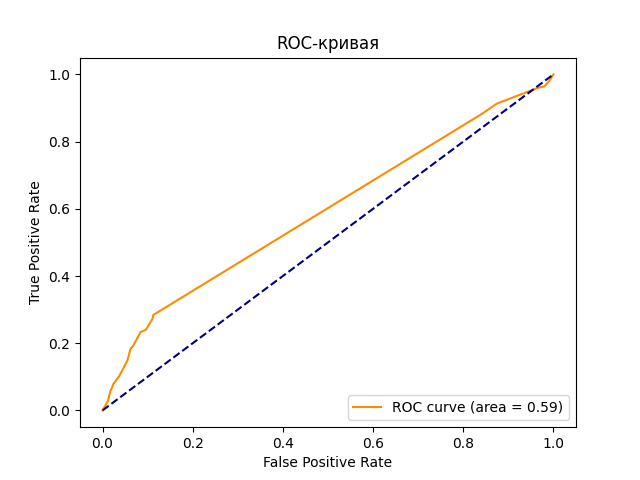
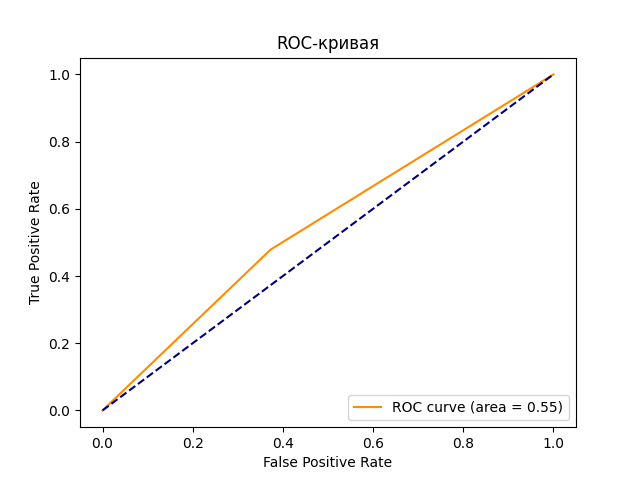
добавление сравнения разных параметров моделей

diff --git a/classification_2params/classification_2params.py b/classification_2params/classification_2params.py
@@ -50,7 +50,7 @@ y=dc["Potability"]
 X_train, X_test, y_train, y_test = train_test_split(X,y,test_size=0.4,random_state=42)
 
 #модель
-dt_classifier_model = DecisionTreeClassifier(max_depth=6)
+dt_classifier_model = DecisionTreeClassifier()
 dt_classifier_model.fit(X_train, y_train)
 
 y_pred_test=dt_classifier_model.predict(X_test)
@@ -99,3 +99,35 @@ plt.title('ROC-кривая')
 plt.legend(loc="lower right")
 plt.savefig("classification_2params/ROC-curve.png")
 plt.show()
+
+
+# Список конфигураций для сравнения
+configs = [
+    {"name": "Без ограничений", "params": {}},
+    {"name": "Глубина 3 (Pre-pruning)", "params": {"max_depth": 3}},
+    {"name": "Глубина 6 (Pre-pruning)", "params": {"max_depth": 6}},
+    {"name": "Глубина 6 (Pre-pruning)+Мин. объектов в листе 2", "params": {"max_depth": 6,"min_samples_leaf": 2,"class_weight":'balanced'}},
+    {"name": "Мин. объектов в листе 10", "params": {"min_samples_leaf": 10}},
+    {"name": "Обрезка (Post-pruning)", "params": {"ccp_alpha": 0.02}}
+]
+
+results = []
+
+for config in configs:
+    # Создаем и обучаем модель
+    model = DecisionTreeClassifier(**config["params"], random_state=42)
+    model.fit(X_train, y_train)
+    
+    # Считаем точность
+    train_acc = model.score(X_train, y_train)
+    test_acc = model.score(X_test, y_test)
+    
+    results.append({
+        "Вариант": config["name"],
+        "Train Accuracy": train_acc,
+        "Test Accuracy": test_acc
+    })
+
+# Выводим красивую таблицу
+results_df = pd.DataFrame(results)
+print(results_df)

diff --git a/classification_lab3.py b/classification_lab3.py
@@ -55,7 +55,7 @@ report = classification_report(y_test, y_pred_test)
 print("\nТочность:", accuracy)
 print("\nConfusion matrix",cm )
 print("\nОтчет: ", report)
-print(score)
+print("\n Roc Auc Score",score)
 
 #Визуализация ROC-кривой
 plt.figure()
@@ -67,3 +67,37 @@ plt.title('ROC-кривая')
 plt.legend(loc="lower right")
 plt.savefig("ROC-curve.png")
 plt.show()
+
+import pandas as pd
+from sklearn.tree import DecisionTreeClassifier, plot_tree
+import matplotlib.pyplot as plt
+
+# Список конфигураций для сравнения
+configs = [
+    {"name": "Без ограничений", "params": {}},
+    {"name": "Глубина 3 (Pre-pruning)", "params": {"max_depth": 3}},
+    {"name": "Глубина 6 (Pre-pruning)", "params": {"max_depth": 6}},
+    {"name": "Мин. объектов в листе 10", "params": {"min_samples_leaf": 10}},
+    {"name": "Обрезка (Post-pruning)", "params": {"ccp_alpha": 0.02}}
+]
+
+results = []
+
+for config in configs:
+    # Создаем и обучаем модель
+    model = DecisionTreeClassifier(**config["params"], random_state=42)
+    model.fit(X_train, y_train)
+    
+    # Считаем точность
+    train_acc = model.score(X_train, y_train)
+    test_acc = model.score(X_test, y_test)
+    
+    results.append({
+        "Вариант": config["name"],
+        "Train Accuracy": train_acc,
+        "Test Accuracy": test_acc
+    })
+
+# Выводим красивую таблицу
+results_df = pd.DataFrame(results)
+print(results_df)

diff --git a/README.md b/README.md
@@ -6,4 +6,4 @@
 3. Решить задачу классификации и оценить работу модели с помощью ROC-кривой
 4. Выгрузить результат работы на Github
 
-<p><a href="https://www.kaggle.com/datasets/uom190346a/water-quality-and-potability">Датасет с качество воды</a></p>
+<p><a href="https://www.kaggle.com/datasets/uom190346a/water-quality-and-potability">Датасет с качеством воды</a></p>
